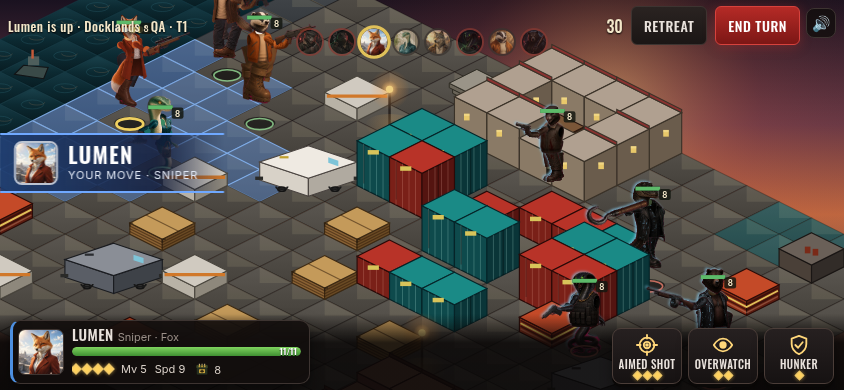
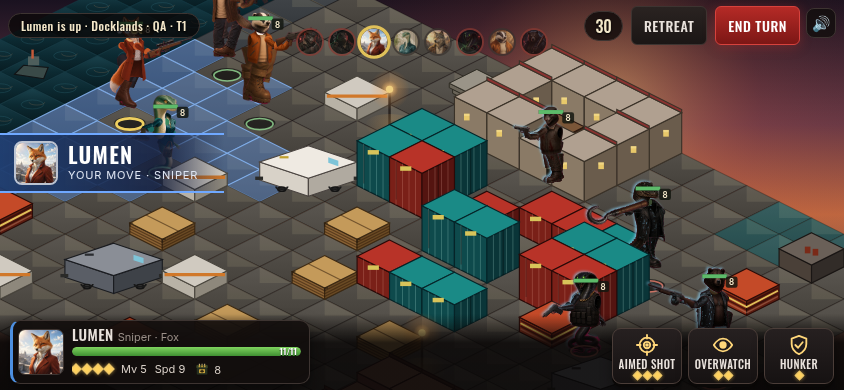
v0.5.8: top bar pills for turn label and timer; README notes; version 0.5.8

diff --git a/css/style.css b/css/style.css
@@ -655,3 +655,6 @@ table.stats td{padding:3px 4px;border-bottom:1px solid var(--line)}
 .tbanner b{display:block;font:600 22px/1 var(--font);text-transform:uppercase;letter-spacing:.06em;color:#fff}
 .tbanner span{font-size:11px;color:#dfe6f3;text-transform:uppercase;letter-spacing:.08em}
 @keyframes tban{0%{transform:translateX(-110%);opacity:0}16%{transform:translateX(0);opacity:1}78%{transform:translateX(0);opacity:1}100%{transform:translateX(-30%);opacity:0}}
+.tturn{flex:0 1 auto;max-width:34%;white-space:nowrap;overflow:hidden;text-overflow:ellipsis;background:rgba(10,8,8,.78);border:1px solid var(--line2);border-radius:999px;padding:3px 12px;font-size:12px}
+.ttimer{background:rgba(10,8,8,.78);border:1px solid var(--line2);border-radius:999px;padding:2px 10px;min-width:auto}
+.ttimer:empty{display:none}

diff --git a/README.md b/README.md
@@ -31,6 +31,14 @@ factions you fight in Missions.
 - High Stakes is an opt-in mode with a confirm step and triple rewards. It is not permadeath: a KO'd operator stays in the crew, but their level and perks reset and any gear they carried is taken. Normal fights have no such penalty.
 - Saves are version 5. Older saves migrate and get a starting ammo / medkit stock.
 
+## v0.5.8 (battle polish)
+
+- Battle dock: hero card (HP bar, AP pips, move/speed/ammo) plus an icon ability tray with AP-cost pips, greyed-out states when you can't afford an ability, and a tooltip. Fits 844x390 landscape without clipping.
+- Fight feed: the last three events, newest first, fading out and colour-coded (hit, miss, KO, heal). The "X is up" hand-offs now show as a slide-in turn banner.
+- End screen: Victory/Defeat with the squad (MVP and KO tags), a quip, counting Cash/Rep/trophy/shard tiles, and a league bar showing promotion or relegation.
+- Marlow and Bruno's Breach is now a thrown **Breach Charge** (4 tiles, radius 1, 4 damage, sets off barrels and vans). Cover is never destroyed; wrecks keep their cover. Range, blast and damage previews are shown on the map.
+- Lead rigs: weightier hit react, Brick braces for Hunker/Fortify, Lumen holds a steady aimed shot, Rook sweeps on Overwatch.
+
 ## The base (Hideout)
 - 40x40 tile isometric map, bigger than the screen: drag to pan, pinch or mouse-wheel to zoom.
 - Starts as an unstructured wasteland: dead grass, cracked concrete lots, broken streets, ruins, trees,
